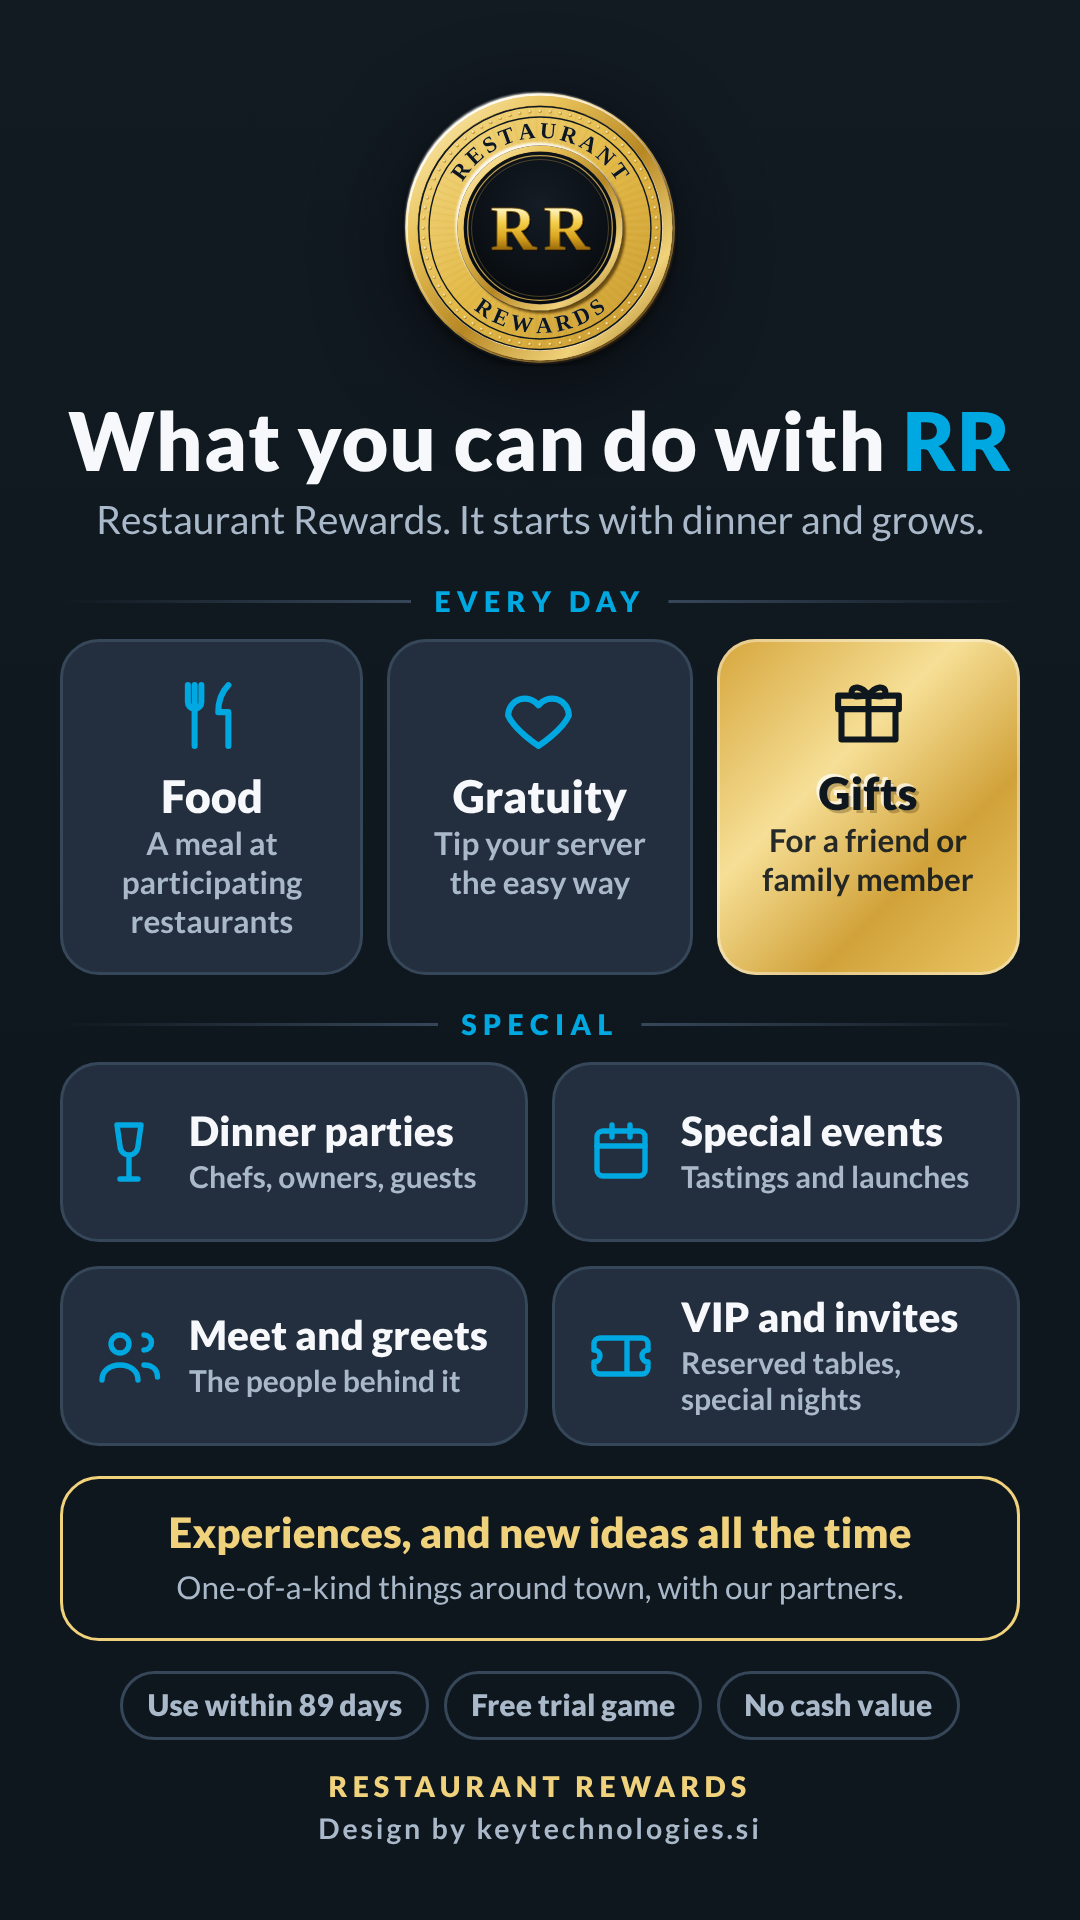
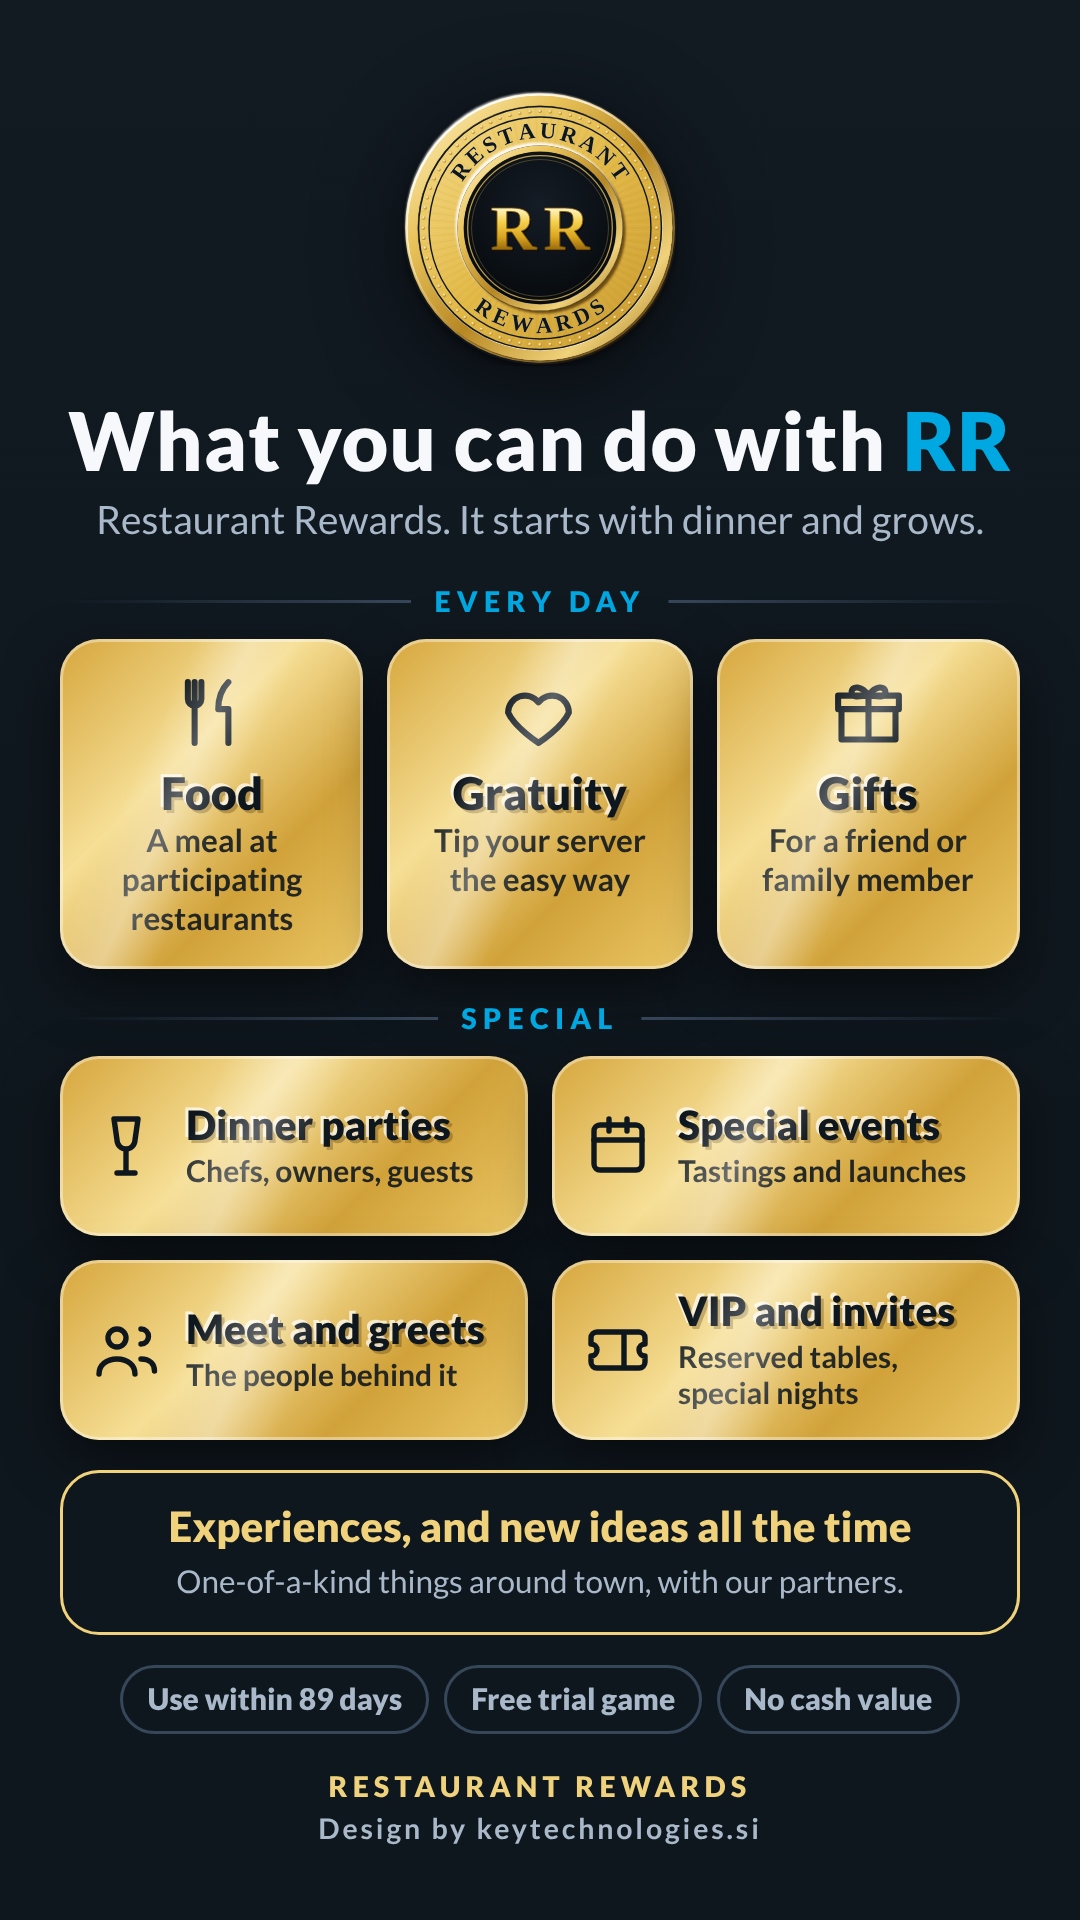
RR share screen: all gold cards on the Key Technologies background
Claude-Session: https://claude.ai/code/session_01C24s48QBeAMLS2iDpVHsTf

Changed region(s): [[0.0306, 0.3125, 0.9472, 0.9062]]

diff --git a/sites/key-technologies/restaurant-rewards-share-kt.html b/sites/key-technologies/restaurant-rewards-share-kt.html
@@ -4,7 +4,7 @@
 <meta charset="utf-8">
 <meta name="viewport" content="width=device-width,initial-scale=1">
 <meta name="robots" content="noindex,nofollow">
-<title>What You Can Do With RR, Key Technologies Colors | Restaurant Rewards</title>
+<title>What You Can Do With RR, Gold Cards | Restaurant Rewards</title>
 <meta name="description" content="A story-sized screen to share: food, gratuity, gifts, dinner parties, special events, meet and greets, VIP experiences and special invites. What Restaurant Rewards (RR) are for.">
 <link rel="canonical" href="https://keytechnologies.si/restaurant-rewards-share-kt.html">
 <meta name="theme-color" content="#0f171e">
@@ -23,12 +23,11 @@ h1 em{font-style:normal;color:var(--key)}
 .lab::before,.lab::after{content:"";flex:1;height:1px;background:linear-gradient(90deg,transparent,var(--line))}.lab::after{transform:scaleX(-1)}
 .row3{position:relative;width:100%;display:grid;grid-template-columns:repeat(3,1fr);gap:8px;margin-bottom:11px}
 .row2{position:relative;width:100%;display:grid;grid-template-columns:1fr 1fr;gap:8px}
-.card{position:relative;overflow:hidden;background:var(--card);border:1px solid var(--line);border-radius:13px}
-.card svg{stroke:var(--key);fill:none;stroke-width:1.8;stroke-linecap:round;stroke-linejoin:round}
-.card h2{margin:0;font-weight:900;color:var(--ink)}
-.card p{margin:0;font-weight:700;color:var(--dim)}
-.card.gold{border:0;color:var(--dark);background:linear-gradient(135deg,#d6a63c 0%,#f6df96 38%,#d1a23a 68%,#ebc765 100%);box-shadow:inset 0 0 0 1px rgba(255,255,255,.4)}
-.card.gold svg{stroke:var(--dark)}.card.gold h2{color:var(--dark);text-shadow:-1px -1px 0 rgba(255,255,255,.7),1px 1px 0 rgba(60,35,0,.28)}.card.gold p{color:rgba(15,23,30,.9)}
+.card{position:relative;overflow:hidden;border:0;border-radius:13px;color:var(--dark);background:linear-gradient(135deg,#d6a63c 0%,#f6df96 38%,#d1a23a 68%,#ebc765 100%);box-shadow:0 7px 18px rgba(0,0,0,.5),inset 0 0 0 1px rgba(255,255,255,.4)}
+.card::after{content:"";position:absolute;inset:0;background:linear-gradient(115deg,transparent 30%,rgba(255,255,255,.32) 42%,transparent 54%);pointer-events:none}
+.card svg{stroke:var(--dark);fill:none;stroke-width:1.8;stroke-linecap:round;stroke-linejoin:round}
+.card h2{margin:0;font-weight:900;color:var(--dark);text-shadow:-1px -1px 0 rgba(255,255,255,.7),1px 1px 0 rgba(60,35,0,.28)}
+.card p{margin:0;font-weight:700;color:rgba(15,23,30,.9)}
 .big{padding:11px 9px 10px;text-align:center;min-height:104px;display:flex;flex-direction:column;align-items:center;gap:2px}
 .big svg{width:27px;height:27px;margin-bottom:3px}
 .big h2{font-size:15px;line-height:1.1}
@@ -55,7 +54,7 @@ h1 em{font-style:normal;color:var(--key)}
  <div class="row3">
   <div class="card big"><svg viewBox="0 0 24 24" aria-hidden="true"><path d="M7 3v8M5 3v5a2 2 0 0 0 4 0V3M7 11v10M17 3c-2 2-3 5-3 8h3v10"/></svg><h2>Food</h2><p>A meal at participating restaurants</p></div>
   <div class="card big"><svg viewBox="0 0 24 24" aria-hidden="true"><path d="M12 21s-7-4.5-9-9a5 5 0 0 1 9-3 5 5 0 0 1 9 3c-2 4.5-9 9-9 9z"/></svg><h2>Gratuity</h2><p>Tip your server the easy way</p></div>
-  <div class="card gold big"><svg viewBox="0 0 24 24" aria-hidden="true"><path d="M4 11h16v9H4zM3 7h18v4H3zM12 7v13M12 7c-2-3-5-3-5-1s3 1 5 1zM12 7c2-3 5-3 5-1s-3 1-5 1z"/></svg><h2>Gifts</h2><p>For a friend or family member</p></div>
+  <div class="card big"><svg viewBox="0 0 24 24" aria-hidden="true"><path d="M4 11h16v9H4zM3 7h18v4H3zM12 7v13M12 7c-2-3-5-3-5-1s3 1 5 1zM12 7c2-3 5-3 5-1s-3 1-5 1z"/></svg><h2>Gifts</h2><p>For a friend or family member</p></div>
  </div>
  <div class="lab">Special</div>
  <div class="row2">

diff --git a/docs/key-integration/NEXT_STEPS.md b/docs/key-integration/NEXT_STEPS.md
@@ -359,3 +359,5 @@ Last updated 2026-11-05. Nothing here is urgent except item 1.
 201. STORY-SIZE "WHAT YOU CAN DO WITH RR" (2026-11-19, Shane: show the download version, make it nicer, tell me what I could have done better, "I've seen better from you"). New unlisted page restaurant-rewards-share-story.html and the download picture brand/restaurant-rewards-share-story.png (1080x1920, 9:16: fits Instagram stories, status and phone screens). Version 3 fixes what was weak in 1 and 2: (a) bigger type (headline 27px, tile titles 13.5 to 15, nothing under 10px) so it reads at phone size; (b) clear order: an "EVERY DAY" row of three big gold cards (Food, Gratuity, Gifts) and a "SPECIAL" block of four (Dinner parties, Special events, Meet and greets, VIP and invites), then the black "Experiences, and new ideas all the time" banner; (c) uses the whole canvas instead of leaving empty bands (checked: content ends at 616 of 640px, no overflow); (d) gold cards with a soft diagonal shine like the wallet cards, a faint gold glow behind the seal, thin gold section dividers; (e) honest notes kept (Use within 89 days, Free trial game, No cash value) and "Design by keytechnologies.si". Not done yet (asked Shane): a call to action with the sign-up link or QR code, because the sign-up to wallet flow is not built. Link: https://keytechnologies.si/restaurant-rewards-share-story.html
 
 202. SHARE SCREEN IN THE KEY TECHNOLOGIES COLORS (2026-11-19, Shane: "make sure the colors are the same as Key Technologies... don't add any other colors, unless you want to add some gold to match that gift card"). New unlisted page restaurant-rewards-share-kt.html and download picture brand/restaurant-rewards-share-kt.png (1080x1920). Colors are exactly the site's own tokens from index.html: background #0f171e (with #121a22 at the top), cards #232f3e, lines #37475a, text #f6f8fb, soft text #aab9ca, key blue #00a8e1 (icons, section labels and the "RR" in the headline). Gold appears only where it matches the gift card: the seal, the Gifts card, the Experiences banner border and title, and the RESTAURANT REWARDS footer line. Same layout and words as the story version (restaurant-rewards-share-story.html, gold-card version, kept). Link: https://keytechnologies.si/restaurant-rewards-share-kt.html
+
+203. ALL GOLD CARDS ON THE KEY TECHNOLOGIES BACKGROUND (2026-11-19, Shane: "maybe make them all gold, I think that looks better"). restaurant-rewards-share-kt.html (and brand/restaurant-rewards-share-kt.png, 1080x1920) now has all seven cards in the gold of the wallet cards (black raised lettering, soft shine) on the Key Technologies navy background (#0f171e, #121a22), with the site's white headline, blue "RR" and blue section labels (#00a8e1), soft gray text (#aab9ca), line color #37475a on the pills, and a dark Experiences banner with a gold border. No new colors. The earlier all-navy version with one gold card is replaced (history in git).
